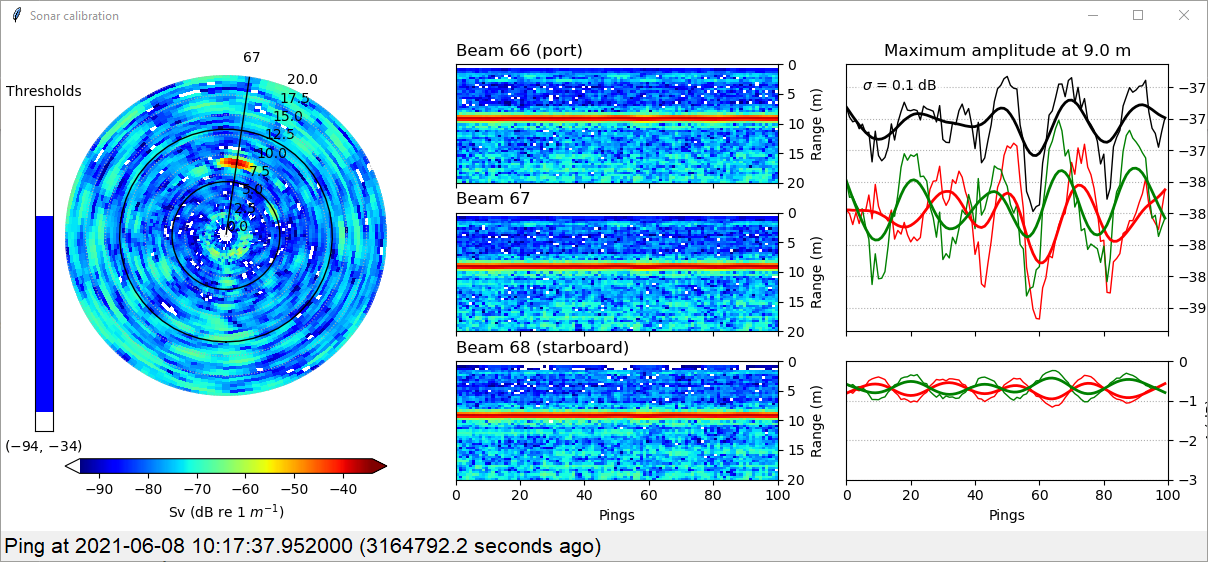
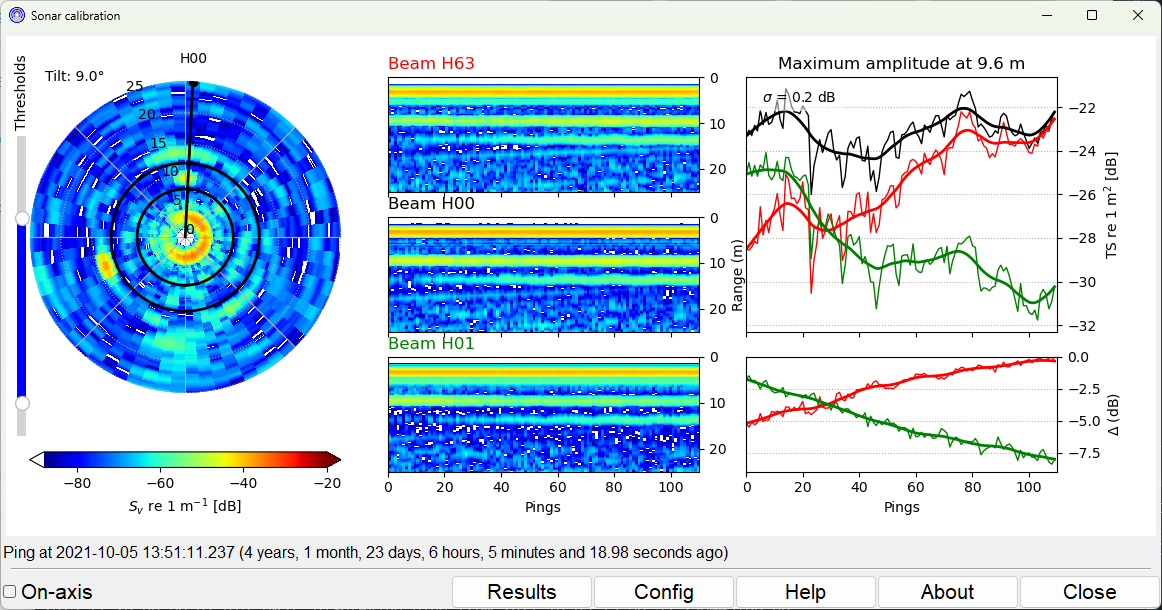
Update screenshot in docs, proof read docs and edit

diff --git a/docs/index.md b/docs/index.md
@@ -72,34 +72,34 @@ Sonarcal is started from a command line with:
 sonarcal
 ```
 
-(or if using uv, the command is `uv tool run sonarcal`).
+(or if using uv, the command is `uv tool run sonarcal`). It make take a few seconds to start, after which the Sonarcal window will appear.
 
-It make take a few seconds to start, after which the Sonarcal window will appear:
+If there are suitable sonar files in the configured data directory, the program will start to replay them. Replay happens in two ways:
+
+**Live data enabled**
+
+:    The last file in the directory will be replayed and then any new data added to that file will also be replayed. If a newer file appears, that will be replayed too.
+
+**Live data disabled**
+
+:    All files in the directory will be replayed in chronological order.
+
 
 ![Main screen](assets/screenshot.png){ align=right }
 /// caption
 The main operation screen.
 ///
 
-If there are suitable sonar files in the configured data directory, the program will start to replay them. Replay happens in two ways:
-
-`Live data enabled`
-
-:    The last file in the directory will be replayed and then any new data added to that file will also be replayed. If a newer file appears, that will be replayed too.
-
-`Live data disabled`
-
-:    All files in the directory will be replayed in chronological order.
 
 Each new ping is displayed in the polar plot to the left. The three centre plots show an echogram of the data from the three sonar beams at and adjacent to the beam line (the black radial line in the polar plot).
 
-The target strength of the maximum amplitude echo on the three beams between the minimum and maximum ranges is shown in the plots to the right. The upper plot uses **black** lines for the selected beam, <span style="color:red">**red**</span> for the beam to port, and <span style="color:green">**green**</span> for starboard. The lower plot shows the difference in amplitude between the echo in the centre beam and the two adjacent beams.
+The target strength of the maximum amplitude echo on the three beams between the range rings is shown in the plots to the right. The upper plot uses **black** lines for the selected beam, <span style="color:red">**red**</span> for the beam to port, and <span style="color:green">**green**</span> for starboard. The lower plot shows the difference in amplitude between the echo in the centre beam and the two adjacent beams.
 
-The upper right plot also includes smoothed lines to aid in seeing trends in the sphere amplitude - these use a thicker line style than the raw echo amplitudes.
+The plots also include smoothed lines to aid in seeing trends in the sphere amplitude - these use a thicker line style than the raw echo amplitudes.
 
 The beam being calibrated is selected by using the mouse to click on and drag the black radial line on the polar plot. The range over which the sphere is detected can be changed by clicking on and dragging the two range rings in the polar plot.
 
-The echogram colour bounds can be adjusted by clicking and dragging on the slider to the left of the polar plot.
+The echogram colour thresholds can be adjusted by clicking and dragging on the slider to the left of the polar plot.
 
 ## Calibrating
 
@@ -114,7 +114,7 @@ When using Sonarcal to calibrate, follow these steps:
 - Repeat for multiple beams:
     - Move the beam line and range rings to select the beam and ranges
     - Locate the sphere on-axis of a beam using the sphere amplitude plots to assist
-    - Tick the `on-axis` box when the sphere on-axis
+    - Tick the `on-axis` box when the sphere is on-axis
     - Monitor the results in the Results dialog box
     - Untick the `on-axis` box when sufficient data have been collected for the beam
 
